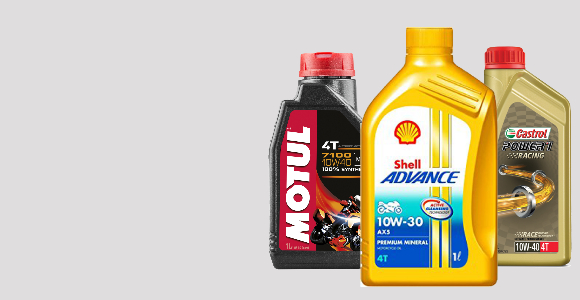
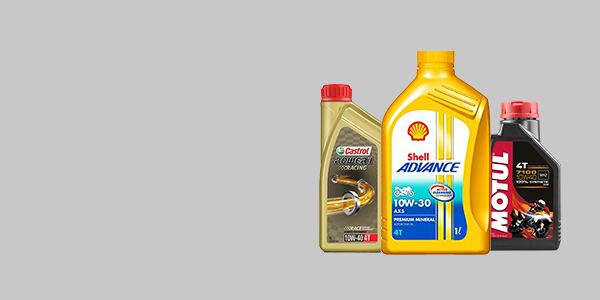
update17/2

diff --git a/style.css b/style.css
@@ -287,8 +287,9 @@ button.black{
  }
 #sm-banner{
     display: flex;
-    justify-content: space-evenly;
+    justify-content: space-between;
     flex-wrap: wrap;
+    
 }
 
  #sm-banner .banner-box{
@@ -297,11 +298,18 @@ button.black{
     justify-content: center;
     align-items: flex-start;
     background-image: url(img/banner/banner1.jpg) ;
-    min-width: 580px;
-    height: 30vh;
+    min-width: 46%;
+    height: 40vh;
     background-size: cover;
     background-position: center;
     padding: 30px;
+    
+
+ }
+ #sm-banner .banner-box2{
+    
+    background-image: url(img/banner/banner2.png) ;
+  
 
  }
  #sm-banner h4{
@@ -322,53 +330,111 @@ button.black{
     font-weight: 500;
     padding-bottom: 15px;
  }
+ #sm-banner .banner-box1 h2{
+    line-height: 1.2;
+    padding: 5px 0;
+ }
 
+ #sm-banner .banner-box2 h4{
+    color: white;
+    font-size: 20px;
+    font-weight: 300;
+ }
 
+ #sm-banner .banner-box2 h2{
+    color: black;
+    font-size: 28px;
+    font-weight: 700;
+ }
+
+ #sm-banner .banner-box2  span{
+    color: white;
+    font-size: 14px;
+    font-weight: 500;
+    padding-bottom: 15px;
+ }
 
 #sm-banner .banner-box:hover button{
     background-color: red;
     color: white;
     border: 1px solid red;
 }
-
+#sm-banner .banner-box2:hover button{
+    background-color: white;
+    color: black;
+    border: 1px solid white;
+}
 #banner3{
     display: flex;
-    justify-content: space-evenly;
+    justify-content: space-between;
     flex-wrap: wrap;
     padding: 0 80px;
 }
+
 #banner3 .banner-box{
     display: flex;
     flex-direction: column;
     justify-content: center;
     align-items: flex-start;
-    background-image: url(img/banner/banner1.jpg) ;
     min-width: 30%;
     height: 30vh;
     background-size: cover;
     background-position: center;
     padding: 20px;
-    margin-bottom: 30px;
+    margin-bottom: 20px;
+    background-repeat: no-repeat;
+    
+}
+
+
+
+
+#banner3 .banner-box1{
+    background-image: url(img/banner/banner3.jpg) ;
+    
 }
 #banner3 .banner-box2{
    
-    background-image: url(img/banner/banner1.jpg) ;
+    background-image: url(img/banner/banner4.jpg) ;
+    
 
 }
 #banner3 .banner-box3{ 
-    background-image: url(img/banner/banner1.jpg) ;
+    background-image: url(img/banner/banner5.jpg) ;
+    
+    
 }
 
 #banner3 h2{
+    
     color: black;
-    font-size: 22px;
+    font-size: 26px;
     font-weight: 700;
+
 }
 
 #banner3 h3{
     color: black;
     font-size: 15px;
     font-weight: 700;
+}
+#banner3 .banner-box1 h2{
+    color: #005469;
+}
+#banner3 .banner-box1 h3{
+    color: #005469;
+}
+#banner3 .banner-box2 h2{
+    line-height: 1.0;
+    padding-bottom: 10px;
+}
+#banner3 .banner-box3 h2{
+    color: #03522f;
+    line-height: 1.0;
+    padding-bottom: 10px;
+}
+#banner3 .banner-box3 h3{
+    color: #03522f;
 }
 
 #newsletter{
@@ -486,7 +552,7 @@ footer .install img{
 
     background-image: url("img/hero2.jpg");
     background-size: cover;
-    height:55vh;
+    height:35vh;
     width: 100%;
     padding:0px 80px;
     display: flex;
@@ -586,14 +652,24 @@ footer .install img{
 /* about Page */
 
 #prod-head.about-header{
-    background-image: url("img/garage.jpg");
+    background-image: url("img/about.jpg");
+    background-position: bottom 35% left 0;
 }
 #about-head{
     display: flex;
     align-items: center;
+    flex-direction: column;
 }
+
+
+#about-head about-head{
+    display: flex;
+    align-items: center;
+    flex-direction: row;
+}
+
 #about-head img{
-    width: 50%;
+    width: 40%;
     height: auto;
 }
 
@@ -813,7 +889,7 @@ footer .install img{
 
 /* Start Media Query */
 
-@media (max-width:800px){
+@media (max-width:820px){
 
 
     .section-p1{
@@ -891,12 +967,23 @@ footer .install img{
         height: 30vh;
         
     }
-    #sm-banner {
-       padding: 0 40px;
+
+    #sm-banner .banner-box2 {
+        margin: 20px 0;
+        min-width: 100%;
+        height: 30vh;
+        
     }
 
-    #sm-banner .banner-box3 {
-        width: 25%;
+    #banner3{
+        padding: 0 40px;
+    }
+    #banner3 .banner-box {
+        background-position: left 0%;
+        width: 28%;
+    }
+    #banner3 .banner-box3 h2{
+        font-size: 22px ;
     }
 
 }
@@ -926,6 +1013,7 @@ footer .install img{
     #sm-banner .banner-box {
         height: 40vh; 
         margin-bottom: 20px;
+        background-position: right 50%;
     }
 
     #banner3{
@@ -934,6 +1022,7 @@ footer .install img{
 
     #banner3 .banner-box {
         width: 100%;
+        background-position: right 50%;
     }
     #newsletter{
         padding: 40px 20px;

diff --git a/about.html b/about.html
@@ -29,22 +29,40 @@
     </section>
 
     <section id="prod-head" class="about-header">
-        <h2>#GettoKnowUs</h2>
-        <p>hai welcome to chili's</p>
+        <h2>#AboutUs</h2>
+        <p>Here's our story</p>
 
     </section>
 
     <section id="about-head" class="section-p1">
-        <img src="img/banner/banner1.jpg" alt="">
-        <div>
+        <div class="about-box">
+        <img src="img/about/about1.jpg" alt="">
+        
             <h2>Who are we?</h2>
-            <p>Welcome to MotoGear Hub, your ultimate destination 
+            <p>Welcome to A$AP BIKE, your ultimate destination 
                 for top-quality motorcycle gear and accessories! 
-                At MotoGear Hub, we're passionate about motorcycles 
+                At A$AP BIKE, we're passionate about motorcycles 
                 and the riders who love them. Whether you're a seasoned
                 biker hitting the open road or a newbie gearing up for
                 your first ride, we've got you covered with everything
                 you need to enhance your riding experience.</p>
+            
+            <br><br>
+            <marquee bgcolor="#ccc" loop="-1" scrollamount="5" width="100%">Explore our porduct Now!!!</marquee>
+        </div>
+        
+        <div class="about-box">
+        <img src="img/about/about2.jpg" alt="">
+        
+            <h2>Who are we?</h2>
+            <p>Founded in [Year], MotoGear Hub was born out of a shared
+                love for motorcycles and a vision to provide fellow
+                riders with a one-stop-shop for premium gear and accessories.
+                With years of experience in the industry, our team understands
+                the importance of safety, comfort, and style when it comes to 
+                riding gear, and we're dedicated to offering a curated selection 
+                of products that meet the highest standards of quality and 
+                performance.</p>
             
             <br><br>
             <marquee bgcolor="#ccc" loop="-1" scrollamount="5" width="100%">Explore our porduct Now!!!</marquee>

diff --git a/index.html b/index.html
@@ -124,32 +124,33 @@
     </section>
 
     <section id="sm-banner" class="section-p1">
-        <div class="banner-box">
+        <div class="banner-box banner-box1">
             <h4>Limited Deals</h4>
-            <h2>Change engine oil, Free oil filter</h2>
+            <h2>Change engine oil,<br>Free oil filter</h2>
+            
             <span>Only while stock last</span>
             <button class="black">Learn More</button>
         </div>
-        <div class="banner-box">
-            <h4>Limited Deals</h4>
-            <h2>Change engine oil, Free oil filter</h2>
+        <div class="banner-box banner-box2">
+            <h4>End of Season</h4>
+            <h2>Up to 50% Discount</h2>
             <span>Only while stock last</span>
             <button class="black">Learn More</button>
         </div>
     </section>
 
     <section id="banner3">
-        <div class="banner-box">
+        <div class="banner-box banner-box1">
             <h2>Seasonal Sale</h2>
             <h3>Summer Collection 20%</h3>
         </div>
         <div class="banner-box banner-box2">
-            <h2>Seasonal Sale</h2>
-            <h3>Summer Collection 20%</h3>
+            <h2>Up to 2-Year Warranty</h2>
+            <h3>For Electronics & Accesories </h3>
         </div>
         <div class="banner-box banner-box3">
-            <h2>Seasonal Sale</h2>
-            <h3>Summer Collection 20%</h3>
+            <h2>UNLIMITED<br> CUSTOMIZATION</h2>
+            <h3>Introducing Icon Airflite</h3>
         </div>
 
     </section>
